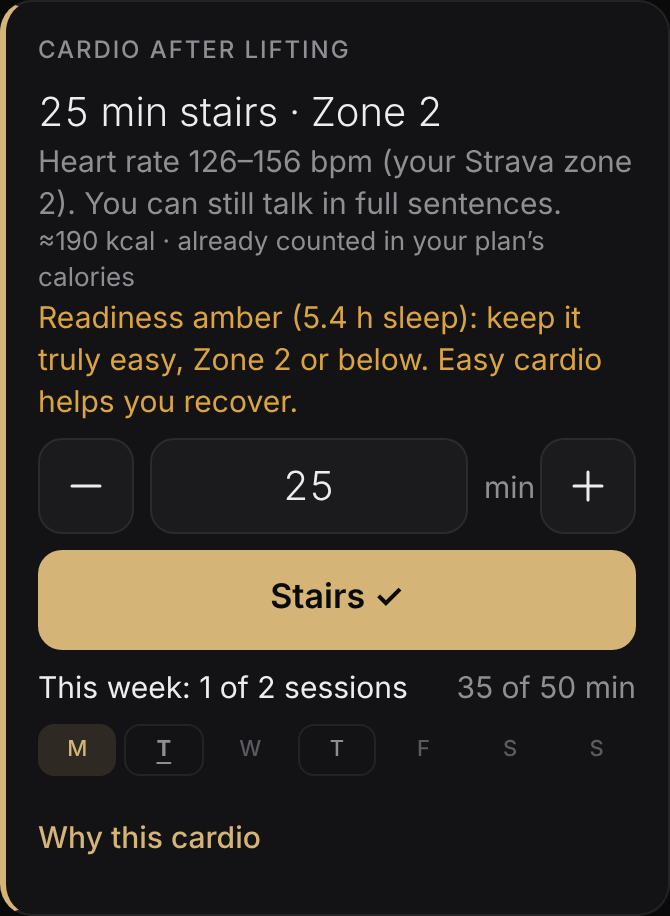
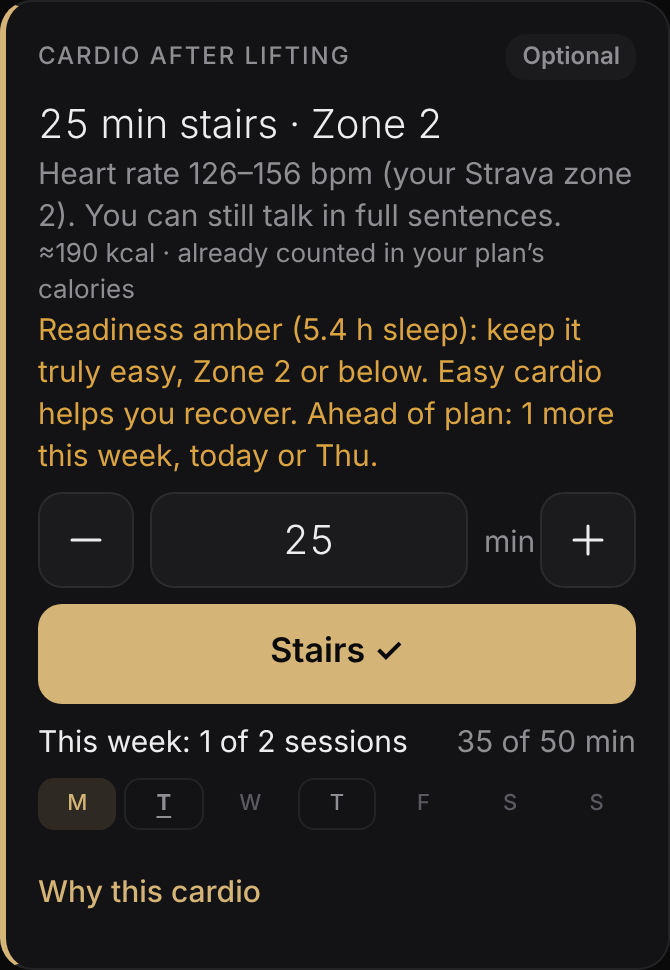
Cardio: flexible days (a moved or extra session makes later slots optional)
Claude-Session: https://claude.ai/code/session_014aJiH9Rgq3VrfiuXciGymN

diff --git a/tests/unit/cardio.test.js b/tests/unit/cardio.test.js
@@ -102,6 +102,18 @@ test('today: scheduled days, done status, readiness, a long ride yesterday, targ
   assert.equal(extra.extra.length, 1, 'cardio on an unplanned day still shows and counts');
 });
 
+test('days are flexible: a session moved to Monday makes Tuesday optional, Thursday still needed', () => {
+  const rx = baseCardio('bulk');
+  const mon = [{ local_date: '2026-10-12', minutes: 30, type: 'StairStepper', source: 'tap' }];
+  const tue = cardioForDay({ rx, date: '2026-10-13', items: mon });
+  assert.equal(tue.today.optional, true);
+  assert.match(tue.today.note, /^Ahead of plan: 1 more this week, today or Thu\./);
+  const thu = cardioForDay({ rx, date: '2026-10-15', items: mon });
+  assert.deepEqual([thu.today.optional, thu.today.note], [false, null], 'the last slot for the session still owed');
+  const cut = cardioForDay({ rx: baseCardio('cut'), date: '2026-10-12' });
+  assert.equal(cut.today.optional, false, 'on plan (nothing extra yet): every slot is needed');
+});
+
 test('a missed session moves to the next free day (not Wednesday), e.g. Friday after a missed Tuesday', () => {
   const rx = baseCardio('bulk');
   const thu = [{ local_date: '2026-10-15', minutes: 25, type: 'StairStepper' }];

diff --git a/coach/cardio.js b/coach/cardio.js
@@ -182,7 +182,11 @@ export function cardioForDay({ rx, date, items = [], readiness = null, addons = 
   const owed = Math.max(0, rx.sessions - before.length);
 
   let today = null;
-  if (scheduled && owed > 0) today = { minutes: rx.minutes, makeup: false };
+  // ahead of plan (an extra or moved session earlier this week): today is one of the
+  // remaining slots, so it's optional until the slots left equal the sessions owed
+  const later = rx.days.filter((d) => d > dow);
+  if (scheduled && owed > 0 && owed < slots) today = { minutes: rx.minutes, makeup: false, optional: true, note: `Ahead of plan: ${owed} more this week, today or ${daysText(later)}.` };
+  else if (scheduled && owed > 0) today = { minutes: rx.minutes, makeup: false };
   else if (scheduled) today = { minutes: rx.minutes, makeup: false, optional: true, note: 'Weekly target already met: today’s is optional.' };
   else if (owed > slots && dow !== LEG_DAY) today = { minutes: rx.minutes, makeup: true, note: `Make-up: ${owed - slots} session${owed - slots === 1 ? '' : 's'} behind this week.` };
 

diff --git a/claude/APP_SPEC.md b/claude/APP_SPEC.md
@@ -309,6 +309,7 @@ The coach prescribes cardio as part of each day's workout. Strava and the Stairs
 - **Today** (`targets/today.json` → `cardio`, also computed on the phone):
   - The session on scheduled days.
   - Optional once the weekly target is met.
+  - Days are flexible: optional when he's ahead (an extra or moved session earlier in the week) until the days left equal the sessions owed. Cardio on any day counts.
   - A make-up on the next free non-Wednesday when he's behind.
   - Readiness amber: same session, keep it easy.
   - Readiness red: a 20-min easy walk instead.
